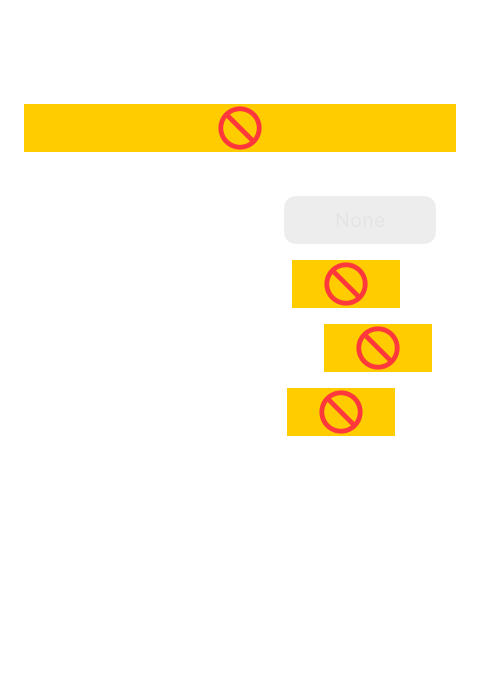
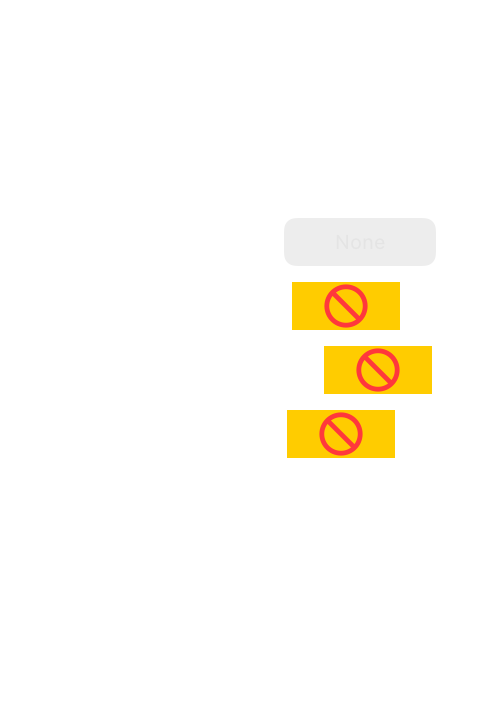
Refine Liquid Glass tabs and interval input

Changed region(s): [[0.0312, 0.1524, 0.9688, 0.2438], [0.5938, 0.3657, 0.9062, 0.6705]]

diff --git a/TomatoBar/View.swift b/TomatoBar/View.swift
@@ -32,46 +32,86 @@ private extension View {
     }
 }
 
+private extension Binding where Value == Int {
+    func clamped(to range: ClosedRange<Int>) -> Binding<Int> {
+        Binding {
+            wrappedValue
+        } set: { newValue in
+            wrappedValue = Swift.min(Swift.max(newValue, range.lowerBound), range.upperBound)
+        }
+    }
+}
+
+private struct NumericStepperRow: View {
+    let title: String
+    let suffix: String?
+    let range: ClosedRange<Int>
+    @Binding var value: Int
+
+    private var formatter: NumberFormatter {
+        let formatter = NumberFormatter()
+        formatter.allowsFloats = false
+        formatter.minimum = NSNumber(value: range.lowerBound)
+        formatter.maximum = NSNumber(value: range.upperBound)
+        formatter.numberStyle = .none
+        return formatter
+    }
+
+    private var validatedValue: Binding<Int> {
+        $value.clamped(to: range)
+    }
+
+    var body: some View {
+        Stepper(value: validatedValue, in: range) {
+            HStack {
+                Text(title)
+                    .frame(maxWidth: .infinity, alignment: .leading)
+                HStack(spacing: 3) {
+                    TextField("", value: validatedValue, formatter: formatter)
+                        .multilineTextAlignment(.trailing)
+                        .font(.system(.body).monospacedDigit())
+                        .frame(width: 32)
+                    if let suffix {
+                        Text(suffix)
+                    }
+                }
+                .accessibilityLabel(title)
+            }
+        }
+    }
+}
+
 private struct IntervalsView: View {
     @EnvironmentObject var timer: TBTimer
     private var minStr = NSLocalizedString("IntervalsView.min", comment: "min")
+    private var minSuffix: String {
+        String.localizedStringWithFormat(minStr, 0).replacingOccurrences(of: "0", with: "").trimmingCharacters(in: .whitespaces)
+    }
 
     var body: some View {
         VStack(spacing: 8) {
-            Stepper(value: $timer.workIntervalLength, in: 1 ... 60) {
-                HStack {
-                    Text(NSLocalizedString("IntervalsView.workIntervalLength.label",
-                                           comment: "Work interval label"))
-                        .frame(maxWidth: .infinity, alignment: .leading)
-                    Text(String.localizedStringWithFormat(minStr, timer.workIntervalLength))
-                }
-            }
-            Stepper(value: $timer.shortRestIntervalLength, in: 1 ... 60) {
-                HStack {
-                    Text(NSLocalizedString("IntervalsView.shortRestIntervalLength.label",
-                                           comment: "Short rest interval label"))
-                        .frame(maxWidth: .infinity, alignment: .leading)
-                    Text(String.localizedStringWithFormat(minStr, timer.shortRestIntervalLength))
-                }
-            }
-            Stepper(value: $timer.longRestIntervalLength, in: 1 ... 60) {
-                HStack {
-                    Text(NSLocalizedString("IntervalsView.longRestIntervalLength.label",
-                                           comment: "Long rest interval label"))
-                        .frame(maxWidth: .infinity, alignment: .leading)
-                    Text(String.localizedStringWithFormat(minStr, timer.longRestIntervalLength))
-                }
-            }
+            NumericStepperRow(title: NSLocalizedString("IntervalsView.workIntervalLength.label",
+                                                       comment: "Work interval label"),
+                              suffix: minSuffix,
+                              range: 1 ... 60,
+                              value: $timer.workIntervalLength)
+            NumericStepperRow(title: NSLocalizedString("IntervalsView.shortRestIntervalLength.label",
+                                                       comment: "Short rest interval label"),
+                              suffix: minSuffix,
+                              range: 1 ... 60,
+                              value: $timer.shortRestIntervalLength)
+            NumericStepperRow(title: NSLocalizedString("IntervalsView.longRestIntervalLength.label",
+                                                       comment: "Long rest interval label"),
+                              suffix: minSuffix,
+                              range: 1 ... 60,
+                              value: $timer.longRestIntervalLength)
             .help(NSLocalizedString("IntervalsView.longRestIntervalLength.help",
                                     comment: "Long rest interval hint"))
-            Stepper(value: $timer.workIntervalsInSet, in: 1 ... 10) {
-                HStack {
-                    Text(NSLocalizedString("IntervalsView.workIntervalsInSet.label",
-                                           comment: "Work intervals in a set label"))
-                        .frame(maxWidth: .infinity, alignment: .leading)
-                    Text("\(timer.workIntervalsInSet)")
-                }
-            }
+            NumericStepperRow(title: NSLocalizedString("IntervalsView.workIntervalsInSet.label",
+                                                       comment: "Work intervals in a set label"),
+                              suffix: nil,
+                              range: 1 ... 10,
+                              value: $timer.workIntervalsInSet)
             .help(NSLocalizedString("IntervalsView.workIntervalsInSet.help",
                                     comment: "Work intervals in set hint"))
             Spacer().frame(minHeight: 0)
@@ -156,6 +196,56 @@ private enum ChildView {
     case intervals, settings, sounds
 }
 
+private struct GlassTabBar: View {
+    @Binding var selection: ChildView
+
+    var body: some View {
+        HStack(spacing: 4) {
+            tab(.intervals, title: NSLocalizedString("TBPopoverView.intervals.label",
+                                                     comment: "Intervals label"))
+            tab(.settings, title: NSLocalizedString("TBPopoverView.settings.label",
+                                                    comment: "Settings label"))
+            tab(.sounds, title: NSLocalizedString("TBPopoverView.sounds.label",
+                                                  comment: "Sounds label"))
+        }
+        .padding(4)
+        .frame(maxWidth: .infinity)
+        .liquidGlassPanel(cornerRadius: 16, interactive: true)
+    }
+
+    private func tab(_ childView: ChildView, title: String) -> some View {
+        Button {
+            selection = childView
+        } label: {
+            Text(title)
+                .font(.system(size: 12, weight: selection == childView ? .semibold : .regular))
+                .lineLimit(1)
+                .frame(maxWidth: .infinity)
+                .padding(.vertical, 6)
+                .contentShape(RoundedRectangle(cornerRadius: 12, style: .continuous))
+        }
+        .buttonStyle(.plain)
+        .modifier(GlassTabButton(isSelected: selection == childView))
+    }
+}
+
+private struct GlassTabButton: ViewModifier {
+    let isSelected: Bool
+
+    @ViewBuilder
+    func body(content: Content) -> some View {
+        if #available(macOS 26.0, *) {
+            content
+                .glassEffect(isSelected ? .regular.interactive() : .identity,
+                             in: .rect(cornerRadius: 12))
+        } else {
+            content
+                .background(isSelected ? Color.accentColor.opacity(0.16) : Color.clear)
+                .cornerRadius(12)
+        }
+    }
+}
+
 struct TBPopoverView: View {
     @ObservedObject var timer = TBTimer()
     @State private var buttonHovered = false
@@ -183,17 +273,7 @@ struct TBPopoverView: View {
             .modifier(PrimaryActionButton())
             .keyboardShortcut(.defaultAction)
 
-            Picker("", selection: $activeChildView) {
-                Text(NSLocalizedString("TBPopoverView.intervals.label",
-                                       comment: "Intervals label")).tag(ChildView.intervals)
-                Text(NSLocalizedString("TBPopoverView.settings.label",
-                                       comment: "Settings label")).tag(ChildView.settings)
-                Text(NSLocalizedString("TBPopoverView.sounds.label",
-                                       comment: "Sounds label")).tag(ChildView.sounds)
-            }
-            .labelsHidden()
-            .frame(maxWidth: .infinity)
-            .pickerStyle(.segmented)
+            GlassTabBar(selection: $activeChildView)
 
             Group {
                 switch activeChildView {
